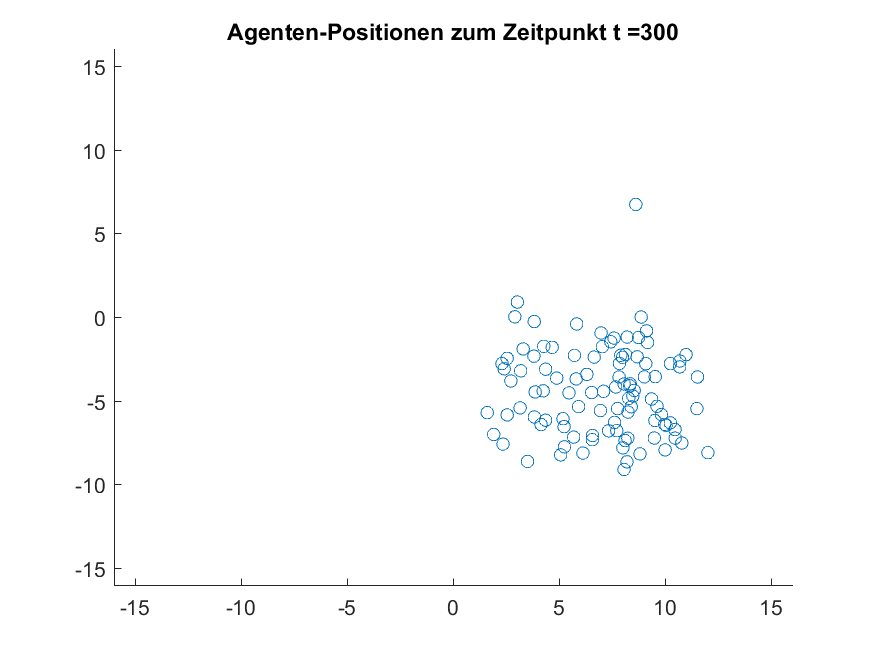
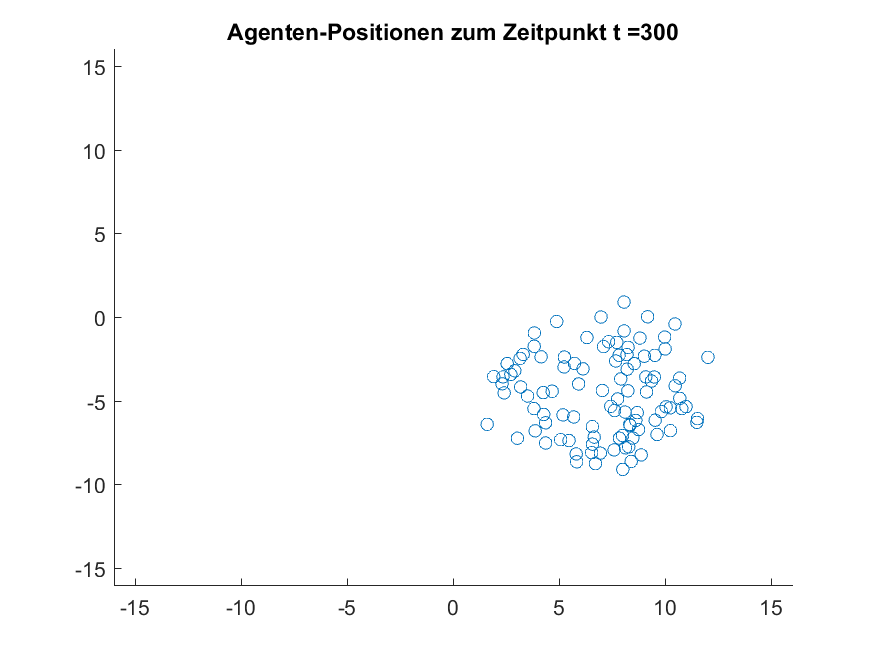
Yow

Changed region(s): [[0.5554, 0.4573, 0.8023, 0.7317]]

diff --git a/Projekt/Cucker_Smale_ode.m b/Projekt/Cucker_Smale_ode.m
@@ -10,8 +10,8 @@ x = [Xi,Yi];
 K = 1/N;
 sigma = 1;
 %beta = 0.1;
-beta=0.45;
-%beta = 0.75;
+%beta=0.45;
+beta = 0.75;
 Nu= @(x) K/(((sigma.^2)+x).^ beta);
 for i = 1:N
     d(i)=0;
